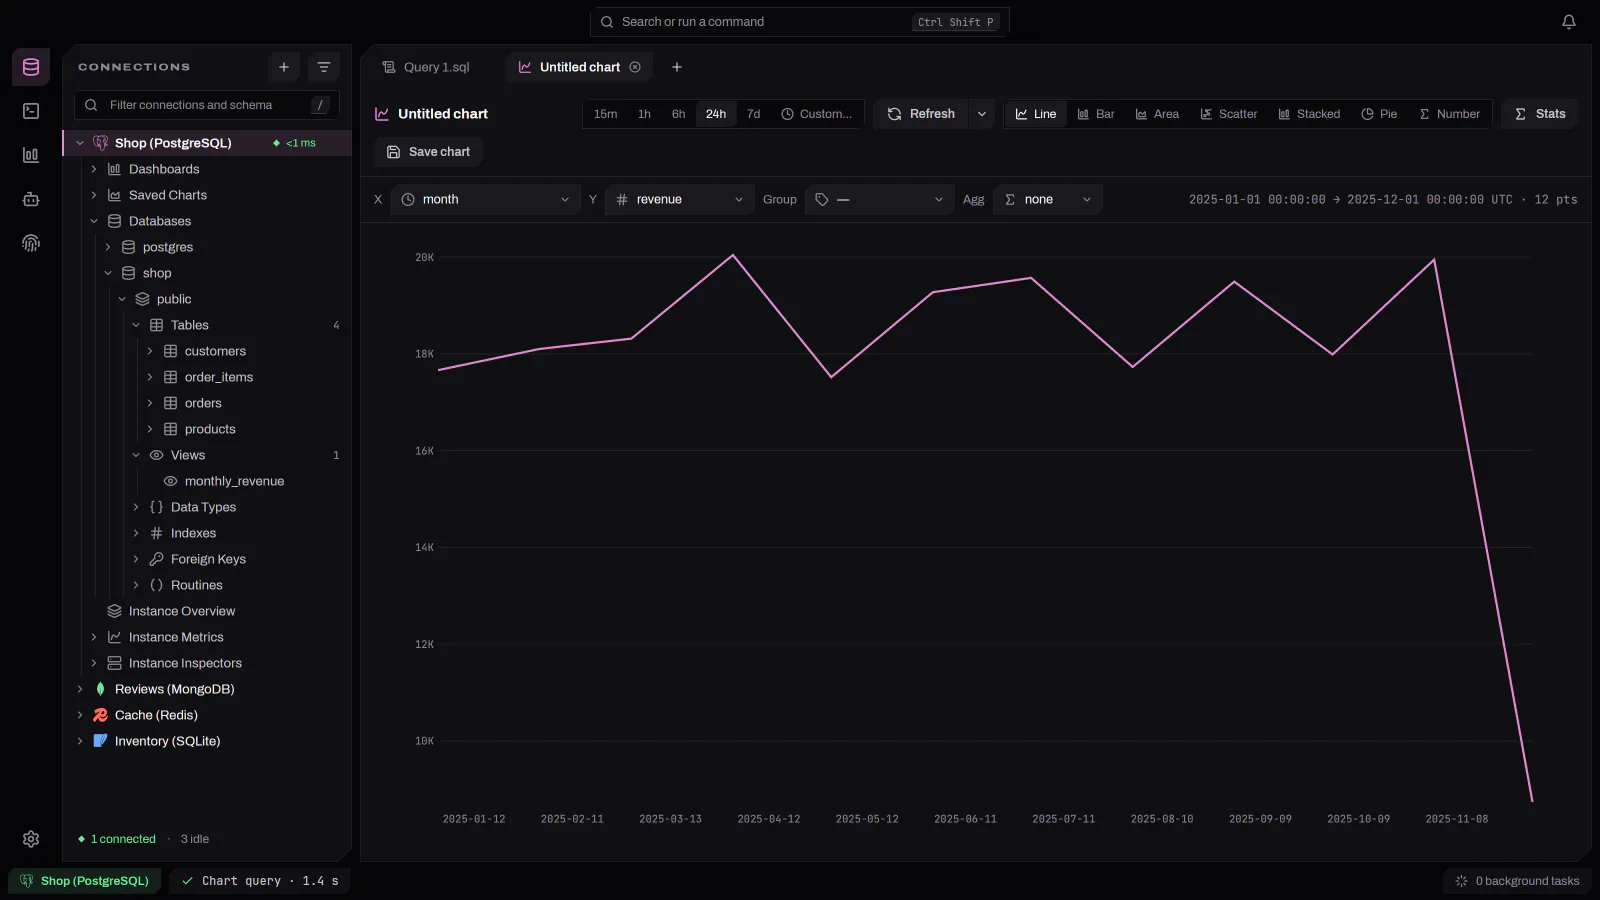
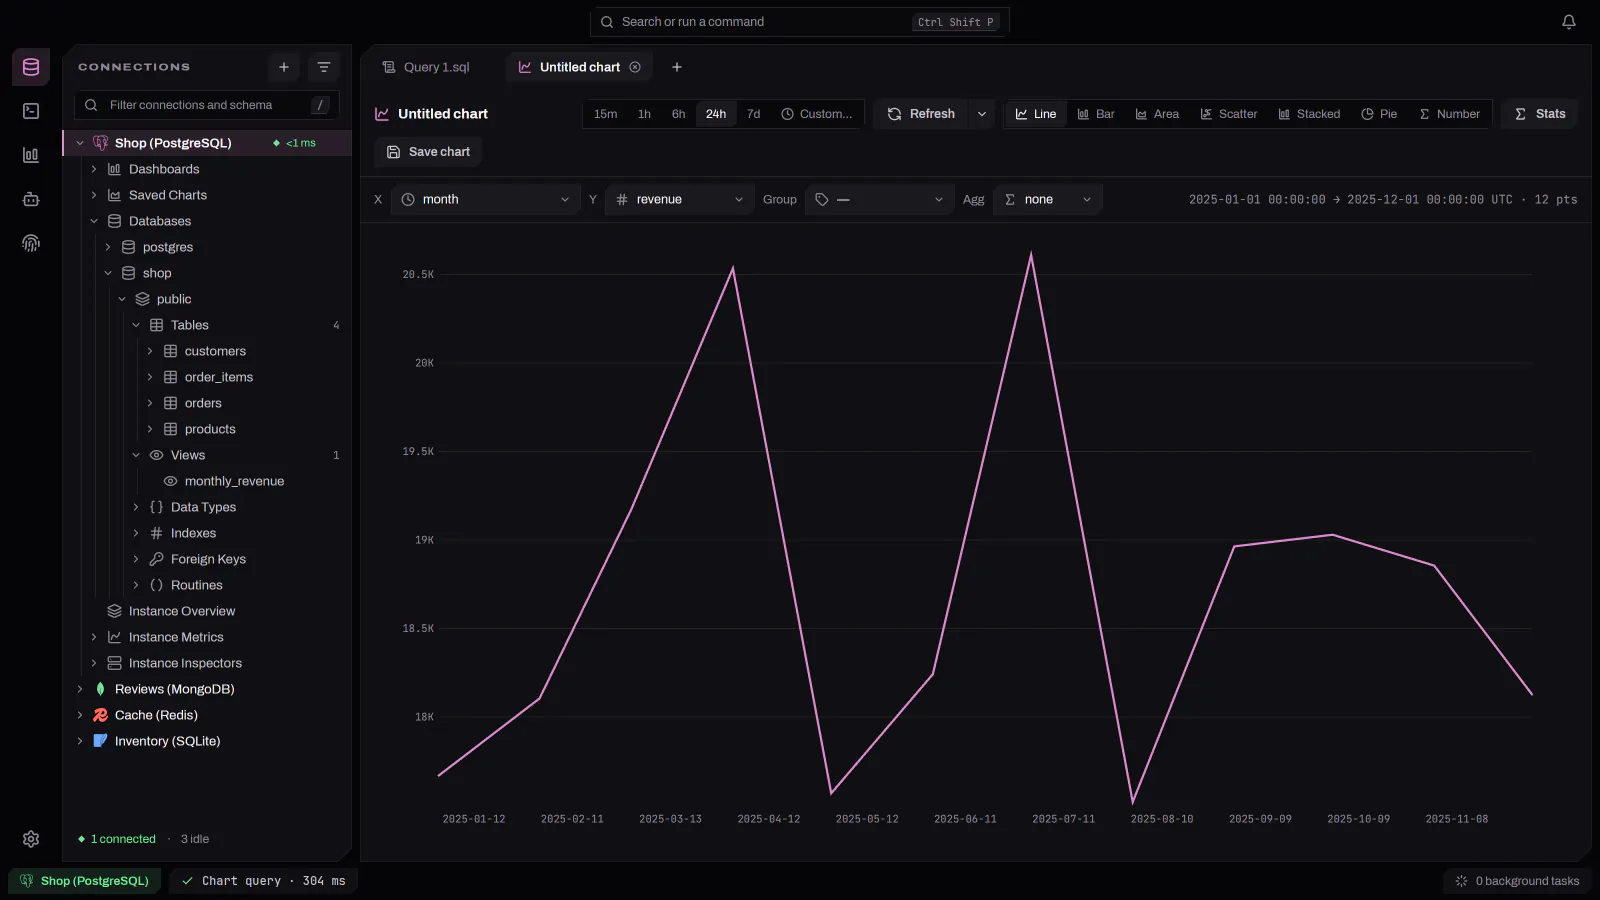
docs: chart a full year of demo revenue on the charts page
The demo orders now all fall in 2025 and monthly_revenue counts every order that was not cancelled or refunded, so December is no longer half counted. The point inspector shot narrows the chart to the revenue series before highlighting a point. Regenerate the screenshots that read orders.

diff --git a/scripts/docs_screenshots/shots.py b/scripts/docs_screenshots/shots.py
@@ -481,8 +481,17 @@ SHOTS = (
             *open_sidebar_item(POSTGRES, "customers", exact=True),
             *open_sidebar_item("monthly_revenue", "average_order numeric", exact=True),
             ensure(wait_visible("axis-pill-x"), click("seg-ctl-item-result-view-Chart")),
+            # Y starts with every numeric column. A click on a column of the
+            # picker toggles it and closes the picker, so it opens once per
+            # column, leaving revenue alone.
+            ensure(wait_visible("y-pick-1"), click("axis-pill-y")),
+            ensure(wait_for("revenue +1", exact=True), click("y-pick-1")),
+            ensure(wait_visible("y-pick-3"), click("axis-pill-y")),
+            ensure(wait_gone(r"^chart-legend-series-1$"), click("y-pick-3")),
             call("pointer_move", **AWAY_FROM_CHART),
-            *highlight_chart_point(4),
+            # August: the readout drawn next to the point leaves the other
+            # points visible.
+            *highlight_chart_point(7),
         ),
     ),
     Shot(
